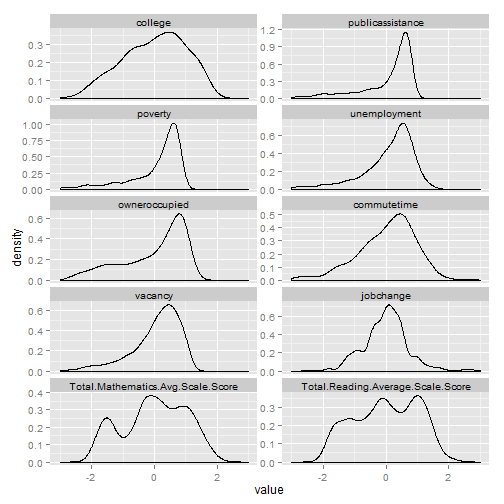
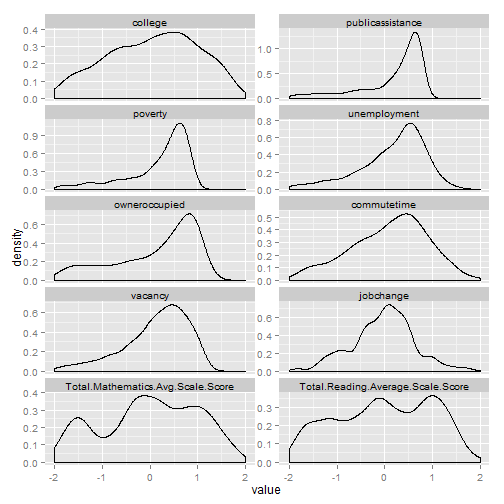
Add back all text

diff --git a/index.html b/index.html
@@ -24,7 +24,25 @@
 
       <section>
         <h2>Opportunity Index</h2>
+<p>The <a href="http://kirwaninstitute.osu.edu/reports/2009/11_2009_CTOppMapping_FullReport.pdf">Opportunity Index</a> uses 10 variables; seven of these can be retrieved from the Census Bureau&#39;s American Community Survey:</p>
+
+<ul>
+<li><a href="http://factfinder2.census.gov/faces/tableservices/jsf/pages/productview.xhtml?pid=ACS_11_5YR_B23006">Educational attainment for the population</a> (college and associates degrees)</li>
+<li><a href="http://factfinder2.census.gov/faces/tableservices/jsf/pages/productview.xhtml?pid=ACS_12_5YR_B23025">Unemployment rates</a> (percent in labor force but unemployed)</li>
+<li><a href="http://factfinder2.census.gov/faces/tableservices/jsf/pages/productview.xhtml?pid=ACS_11_5YR_B19058">Population on public assistance</a></li>
+<li><a href="http://factfinder2.census.gov/faces/tableservices/jsf/pages/productview.xhtml?pid=ACS_12_5YR_B08135">Mean commute time</a> (average time to commute for residents, using the method outlined <a href="http://quickfacts.census.gov/qfd/meta/long_LFE305212.htm">here</a>)</li>
+<li><a href="http://factfinder2.census.gov/faces/tableservices/jsf/pages/productview.xhtml?pid=ACS_12_5YR_B25002">Vacancy rate</a> (percent vacant housing)</li>
+<li><a href="http://factfinder2.census.gov/faces/tableservices/jsf/pages/productview.xhtml?pid=ACS_12_5YR_B17017">Poverty</a> (percent below poverty line)</li>
+<li><a href="http://factfinder2.census.gov/faces/tableservices/jsf/pages/productview.xhtml">Home ownership rate</a></li>
+</ul>
+
 <h3>Census data for neighborhoods</h3>
+
+<p>For &#39;neighborhood&#39; data, the index uses census tracts which restricts the data source to the ACS 5-year estimates. I used the <a href="http://cran.r-project.org/web/packages/acs/index.html">acs.R package</a> to download census data by tract for the entire state for each of these seven variables. The most recent set of 5-year estimates spans 2008 - 2012, but the script could be updated for different years as new data becomes available.</p>
+
+<p>To keep each of the variables in the same &#39;direction&#39; (more homeownership is &#39;good,&#39; while more poverty is &#39;bad&#39;), I converted the public assistance, poverty, unemployment and vacancy to the inverse percentage (i.e. 1 - rate). For the commute times, I multiplied by (-1) so that longer commute times are lower values. </p>
+
+<p>Below are summary stats for the census data components of the index:</p>
 
 <!-- html table generated in R 3.0.2 by xtable 1.7-3 package -->
 
@@ -41,7 +59,17 @@
   <TR> <TD align="right"> 7 </TD> <TD> NA's   :5   </TD> <TD> NA's   :7   </TD> <TD> NA's   :7   </TD> <TD> NA's   :7   </TD> <TD> NA's   :7   </TD> <TD> NA's   :8   </TD> <TD> NA's   :6   </TD> </TR>
    </TABLE>
 
+<p>The remaining variables - math and reading test scores and economic climate - aren&#39;t publicly available at the neighborhood level. </p>
+
 <h3>Town data for jobs and test scores</h3>
+
+<p>Math and reading scores are reported by the State Department of Education <a href="http://www.ctreports.com/">at the school and district level</a>. Since many children do not attend neighborhood schools, even if data were readily available it may  not accurately represent opportunity in a particular neighborhood. As a proxy, we use the average test scores for the school district of the town. Average test scores take into account the performance of all students, not just those crossing a particular threshold. </p>
+
+<p>A few smaller districts did not have 2013 reports, so the most recent year available was used instead. Scores for regional school districts are reported for each town in the region. Cornwall and Union did not have data for any of the past 7 years. (The index also does not specify the grade to use, so I opted to take 3rd grade reading and math scores as a fairly common milestone indicator.)</p>
+
+<p>&#39;Economic climate&#39; was defined for the Opportunity Index as &#39;the change in jobs within 5 miles from 2005 to 2008,&#39; using data from ESRI Business Analyst. To get around relying on data from ESRI, I used the <a href="http://www1.ctdol.state.ct.us/lmi/">Quarterly Census of Earnings and Wages</a> series from the Bureau of Labor Statistics. The data is available by town and is a direct census of employment from wage records. I used 2009 to 2012 as the timeframe, although this does not perfectly match the census data. </p>
+
+<p>As in the prior Opportunity Index, the job change data has some outlier values, particularly for small towns (such as Barkhamsted, where employment doubled from 616 to 1145 people over the three years) which you can see in the summary stats below.</p>
 
 <!-- html table generated in R 3.0.2 by xtable 1.7-1 package -->
 
@@ -60,15 +88,33 @@
 
 <h3>Calculating z-scores for the index</h3>
 
+<p>The Opportunity Index uses z-scores to scale the variables and calculate the index. This is important because the interpretation of the z-scores depends on how the data are distributed. If data are distributed normally (&#39;bell-curve&#39; style), the z-scores tell us roughly how much of the data is below or above a certain z-score. You can then also compare z-scores for different bell-curve-shaped data sets - the z-scores mean the same thing if the underlying distributions have the same shape. </p>
+
+<p>The plots below show the distribution of each of the components of the index for the 833 census tracts in Connecticut. You can see that most are not bell-curve shaped though. Rather, several are skewed, which reflects the general concentration of poverty, public assistance and related variables in a small set of neighborhoods within the state. </p>
+
 <p><img src="assets/fig/unnamed-chunk-3.png" alt="plot of chunk unnamed-chunk-3"> </p>
+
+<p>If the data are not normally distributed - if, for instance, they are skewed or there are multiple modes in the data - then the z-scores can be harder to interpret. And it&#39;s also harder to compare the z-scores across variables - a z-score of 2 for poverty doesn&#39;t mean the same thing as a z-score of 2 for commute time if they don&#39;t have the same-shaped distribution. </p>
+
+<p>This matters since the opportunity index is calculated using the average z-scores across all of the variables. If the variables have different distributions, then the z-scores will have different ranges and the z-scores won&#39;t have the same interpretation or influence on the final index values. </p>
+
+<p>The charts below show the standardized results for each variable - they report the z-scores between -/+2 standard deviations for each variable. You can see that variables like poverty, public assistance, unemployment tend to have similar shapes and are skewed positive - there are many above-average tracts, but a long tail of tracts with below-average scores on these variables.</p>
 
 <p><img src="assets/fig/unnamed-chunk-4.png" alt="plot of chunk unnamed-chunk-4"> </p>
 
+<p>To see this visually, we can map each of the variables for the state. Several variables - like poverty, public assistance, unemployment - show similar patterns across tracts, while job growth and vacancy are less similar. </p>
+
 <p><img src="assets/fig/unnamed-chunk-5.png" alt="plot of chunk unnamed-chunk-5"> </p>
+
+<p>The next step is to calculate the opportunity index from the z-scores of the individual variables. Even this has some choices involved - the Kirwan Institute mapping uses <a href="http://kirwaninstitute.osu.edu/reports/2009/11_2009_CTOppMapping_FullReport.pdf">quintiles to color the maps</a>, which means 1/5th of the tracts will fall into each color category. The map below shows the updated index for the state using quintiles. </p>
 
 <p><img src="assets/fig/unnamed-chunk-6.png" alt="plot of chunk unnamed-chunk-6"> </p>
 
+<p>Another way of coloring the map would be to use <a href="http://support.esri.com/en/knowledgebase/GISDictionary/term/natural%20breaks%20classification">Jenks natural breaks</a> method which looks for natural divisions in the data. The map below uses this coloring method for the same data.</p>
+
 <p><img src="assets/fig/unnamed-chunk-7.png" alt="plot of chunk unnamed-chunk-7"> </p>
+
+<p>This map reflects fewer areas of &#39;very low&#39; opportunity, but more areas of &#39;low&#39; and &#39;moderate&#39; opportunity. Another way to see this is to plot the distribution of the index values for the tracts, including the breakpoints. The chart below shows the breakpoints using the quintiles. (Again, the overall distribution is skewed positive.)</p>
 
 <p><img src="assets/fig/unnamed-chunk-8.png" alt="plot of chunk unnamed-chunk-8"> </p>
 
@@ -76,7 +122,13 @@
 
 <p><img src="assets/fig/unnamed-chunk-9.png" alt="plot of chunk unnamed-chunk-9"> </p>
 
+<p>Using quintiles means that roughly 20 percent of the population will always live in high opportunity areas (since census tracts have roughly similar population), while the Jenks breaks (or other methods) would reflect the concentration of poverty in a smaller set of areas. </p>
+
 <h3>What is driving the Opportunity Index</h3>
+
+<p>With a composite index of z-scores, it helps to see if specific variables are playing more of a role in determining the final index values. The <a href="http://www.oecd.org/std/42495745.pdf">OECD guide to composite indicators</a> notes that using z-scores means that &#39;indicators with extreme values thus have a greater effect on the composite indicator.&#39; That can be an issue in a state with a high degree of inequality and concentration of poverty. </p>
+
+<p>As a start, we know that many of the variables are correlated with each other - the correlation matrix below shows that several of the variables - poverty, public assistance, etc. - are correlated with each other. Job growth has almost no correlation with any of the variables. </p>
 
 <!-- html table generated in R 3.0.2 by xtable 1.7-3 package -->
 
@@ -96,7 +148,11 @@
   <TR> <TD align="right"> Total.Reading.Average.Scale.Score </TD> <TD align="right"> 0.70 </TD> <TD align="right"> 0.65 </TD> <TD align="right"> 0.62 </TD> <TD align="right"> 0.53 </TD> <TD align="right"> 0.64 </TD> <TD align="right"> -0.37 </TD> <TD align="right"> 0.29 </TD> <TD align="right"> 0.05 </TD> <TD align="right"> 0.96 </TD> <TD align="right"> 1.00 </TD> </TR>
    </TABLE>
 
+<p>A scatterplot matrix shows the same visually - job growth and (to a lesser extent) commute time have little obvious relationship with the other variables.</p>
+
 <p><img src="assets/fig/unnamed-chunk-11.png" alt="plot of chunk unnamed-chunk-11"> </p>
+
+<p>A principal components analysis is another way to look at how each variable impacts the final index. For the index data, the first principal component dominates the results - explaining 56 percent of the overall variance in the data (first bar in the graph, first column in the table). </p>
 
 <!-- html table generated in R 3.0.2 by xtable 1.7-3 package -->
 
@@ -111,9 +167,27 @@
 
 <p><img src="assets/fig/unnamed-chunk-12.png" alt="plot of chunk unnamed-chunk-12"> </p>
 
+<p>We can look at the weights for each of the variables in the first principal component in the chart below. This shows that job growth has little influence on the first component (weight close to 0), while commute time offsets some of the other variables (positive weight). Poverty, public assistance and owner-occupied housing have the strongest weights. </p>
+
 <p><img src="assets/fig/unnamed-chunk-13.png" alt="plot of chunk unnamed-chunk-13"> </p>
 
+<p>In other words, since much of the variance is explained by the first principal components and since poverty, public assistance, owner-occupied housing, educational attainment, test scores and unemployment have the most weight for that component, most of the opportunity index is described by these variables (poverty, public assistance, etc.). </p>
+
+<p>Not surprisingly, many of these variables also have skewed distributions for Connecticut, and hence a more extreme range of z-scores to factor into the overall index.</p>
+
+<p>Another way to look at this is to see how well these variables predict the final index values. For example, poverty alone predicts the overall index pretty well - the R-squared is 0.78 - meaning that the variation in poverty alone explains 78% of the variation in opportunity. </p>
+
 <p><img src="assets/fig/unnamed-chunk-14.png" alt="plot of chunk unnamed-chunk-14"> </p>
+
+<p>Overall: </p>
+
+<ul>
+<li>We can re-calculate the opportunity index using Census data and state data for towns on test scores and jobs, making some concessions for data availability on the latter variables.</li>
+<li>Timing is a consideration - the Census data covers a different time horizon than the other variables. (But the original index used 2000 census data and jobs data for 2005 - 2008, so this may be less of a concern.)</li>
+<li>The index is driven largely by poverty and variables like public assistance that are strongly correlated with poverty. </li>
+<li>Different ways to display the data will yield different conclusions about the landscape of opportunity in Connecticut. </li>
+<li>Job growth (economic climate) has the least influence on the index as it is uncorrelated with the other variables. </li>
+</ul>
 
       </section>
       <footer>

diff --git a/index.md b/index.md
@@ -12,11 +12,22 @@ markdown    : kramdown
 
 ## Opportunity Index
 
-
+The [Opportunity Index](http://kirwaninstitute.osu.edu/reports/2009/11_2009_CTOppMapping_FullReport.pdf) uses 10 variables; seven of these can be retrieved from the Census Bureau's American Community Survey:
+* [Educational attainment for the population](http://factfinder2.census.gov/faces/tableservices/jsf/pages/productview.xhtml?pid=ACS_11_5YR_B23006) (college and associates degrees)
+* [Unemployment rates](http://factfinder2.census.gov/faces/tableservices/jsf/pages/productview.xhtml?pid=ACS_12_5YR_B23025) (percent in labor force but unemployed)
+* [Population on public assistance](http://factfinder2.census.gov/faces/tableservices/jsf/pages/productview.xhtml?pid=ACS_11_5YR_B19058)
+* [Mean commute time](http://factfinder2.census.gov/faces/tableservices/jsf/pages/productview.xhtml?pid=ACS_12_5YR_B08135) (average time to commute for residents, using the method outlined [here](http://quickfacts.census.gov/qfd/meta/long_LFE305212.htm))
+* [Vacancy rate](http://factfinder2.census.gov/faces/tableservices/jsf/pages/productview.xhtml?pid=ACS_12_5YR_B25002) (percent vacant housing)
+* [Poverty](http://factfinder2.census.gov/faces/tableservices/jsf/pages/productview.xhtml?pid=ACS_12_5YR_B17017) (percent below poverty line)
+* [Home ownership rate](http://factfinder2.census.gov/faces/tableservices/jsf/pages/productview.xhtml)
 
 ### Census data for neighborhoods
 
+For 'neighborhood' data, the index uses census tracts which restricts the data source to the ACS 5-year estimates. I used the [acs.R package](http://cran.r-project.org/web/packages/acs/index.html) to download census data by tract for the entire state for each of these seven variables. The most recent set of 5-year estimates spans 2008 - 2012, but the script could be updated for different years as new data becomes available.
 
+To keep each of the variables in the same 'direction' (more homeownership is 'good,' while more poverty is 'bad'), I converted the public assistance, poverty, unemployment and vacancy to the inverse percentage (i.e. 1 - rate). For the commute times, I multiplied by (-1) so that longer commute times are lower values. 
+
+Below are summary stats for the census data components of the index:
 
 <!-- html table generated in R 3.0.2 by xtable 1.7-3 package -->
 <!-- Wed May 21 15:31:37 2014 -->
@@ -32,9 +43,17 @@ markdown    : kramdown
    </TABLE>
 
 
+The remaining variables - math and reading test scores and economic climate - aren't publicly available at the neighborhood level. 
+
 ### Town data for jobs and test scores
 
+Math and reading scores are reported by the State Department of Education [at the school and district level](http://www.ctreports.com/). Since many children do not attend neighborhood schools, even if data were readily available it may  not accurately represent opportunity in a particular neighborhood. As a proxy, we use the average test scores for the school district of the town. Average test scores take into account the performance of all students, not just those crossing a particular threshold. 
 
+A few smaller districts did not have 2013 reports, so the most recent year available was used instead. Scores for regional school districts are reported for each town in the region. Cornwall and Union did not have data for any of the past 7 years. (The index also does not specify the grade to use, so I opted to take 3rd grade reading and math scores as a fairly common milestone indicator.)
+
+'Economic climate' was defined for the Opportunity Index as 'the change in jobs within 5 miles from 2005 to 2008,' using data from ESRI Business Analyst. To get around relying on data from ESRI, I used the [Quarterly Census of Earnings and Wages](http://www1.ctdol.state.ct.us/lmi/) series from the Bureau of Labor Statistics. The data is available by town and is a direct census of employment from wage records. I used 2009 to 2012 as the timeframe, although this does not perfectly match the census data. 
+
+As in the prior Opportunity Index, the job change data has some outlier values, particularly for small towns (such as Barkhamsted, where employment doubled from 616 to 1145 people over the three years) which you can see in the summary stats below.
 
 <!-- html table generated in R 3.0.2 by xtable 1.7-1 package -->
 <!-- Tue May 20 16:53:00 2014 -->
@@ -52,31 +71,38 @@ markdown    : kramdown
 
 ### Calculating z-scores for the index
 
+The Opportunity Index uses z-scores to scale the variables and calculate the index. This is important because the interpretation of the z-scores depends on how the data are distributed. If data are distributed normally ('bell-curve' style), the z-scores tell us roughly how much of the data is below or above a certain z-score. You can then also compare z-scores for different bell-curve-shaped data sets - the z-scores mean the same thing if the underlying distributions have the same shape. 
 
+The plots below show the distribution of each of the components of the index for the 833 census tracts in Connecticut. You can see that most are not bell-curve shaped though. Rather, several are skewed, which reflects the general concentration of poverty, public assistance and related variables in a small set of neighborhoods within the state. 
 
 ![plot of chunk unnamed-chunk-3](assets/fig/unnamed-chunk-3.png) 
 
 
+If the data are not normally distributed - if, for instance, they are skewed or there are multiple modes in the data - then the z-scores can be harder to interpret. And it's also harder to compare the z-scores across variables - a z-score of 2 for poverty doesn't mean the same thing as a z-score of 2 for commute time if they don't have the same-shaped distribution. 
 
+This matters since the opportunity index is calculated using the average z-scores across all of the variables. If the variables have different distributions, then the z-scores will have different ranges and the z-scores won't have the same interpretation or influence on the final index values. 
+
+The charts below show the standardized results for each variable - they report the z-scores between -/+2 standard deviations for each variable. You can see that variables like poverty, public assistance, unemployment tend to have similar shapes and are skewed positive - there are many above-average tracts, but a long tail of tracts with below-average scores on these variables.
 
 ![plot of chunk unnamed-chunk-4](assets/fig/unnamed-chunk-4.png) 
 
 
-
+To see this visually, we can map each of the variables for the state. Several variables - like poverty, public assistance, unemployment - show similar patterns across tracts, while job growth and vacancy are less similar. 
 
 ![plot of chunk unnamed-chunk-5](assets/fig/unnamed-chunk-5.png) 
 
 
+The next step is to calculate the opportunity index from the z-scores of the individual variables. Even this has some choices involved - the Kirwan Institute mapping uses [quintiles to color the maps](http://kirwaninstitute.osu.edu/reports/2009/11_2009_CTOppMapping_FullReport.pdf), which means 1/5th of the tracts will fall into each color category. The map below shows the updated index for the state using quintiles. 
 
 ![plot of chunk unnamed-chunk-6](assets/fig/unnamed-chunk-6.png) 
 
 
-
+Another way of coloring the map would be to use [Jenks natural breaks](http://support.esri.com/en/knowledgebase/GISDictionary/term/natural%20breaks%20classification) method which looks for natural divisions in the data. The map below uses this coloring method for the same data.
 
 ![plot of chunk unnamed-chunk-7](assets/fig/unnamed-chunk-7.png) 
 
 
-
+This map reflects fewer areas of 'very low' opportunity, but more areas of 'low' and 'moderate' opportunity. Another way to see this is to plot the distribution of the index values for the tracts, including the breakpoints. The chart below shows the breakpoints using the quintiles. (Again, the overall distribution is skewed positive.)
 
 ![plot of chunk unnamed-chunk-8](assets/fig/unnamed-chunk-8.png) 
 
@@ -86,9 +112,13 @@ And this chart shows the breakpoints using the natural breaks method.
 ![plot of chunk unnamed-chunk-9](assets/fig/unnamed-chunk-9.png) 
 
 
+Using quintiles means that roughly 20 percent of the population will always live in high opportunity areas (since census tracts have roughly similar population), while the Jenks breaks (or other methods) would reflect the concentration of poverty in a smaller set of areas. 
 
 ### What is driving the Opportunity Index 
 
+With a composite index of z-scores, it helps to see if specific variables are playing more of a role in determining the final index values. The [OECD guide to composite indicators](http://www.oecd.org/std/42495745.pdf) notes that using z-scores means that 'indicators with extreme values thus have a greater effect on the composite indicator.' That can be an issue in a state with a high degree of inequality and concentration of poverty. 
+
+As a start, we know that many of the variables are correlated with each other - the correlation matrix below shows that several of the variables - poverty, public assistance, etc. - are correlated with each other. Job growth has almost no correlation with any of the variables. 
 
 <!-- html table generated in R 3.0.2 by xtable 1.7-3 package -->
 <!-- Wed May 21 11:12:22 2014 -->
@@ -107,12 +137,12 @@ And this chart shows the breakpoints using the natural breaks method.
    </TABLE>
 
 
- 
+A scatterplot matrix shows the same visually - job growth and (to a lesser extent) commute time have little obvious relationship with the other variables.
 
 ![plot of chunk unnamed-chunk-11](assets/fig/unnamed-chunk-11.png) 
 
 
-
+A principal components analysis is another way to look at how each variable impacts the final index. For the index data, the first principal component dominates the results - explaining 56 percent of the overall variance in the data (first bar in the graph, first column in the table). 
 
 <!-- html table generated in R 3.0.2 by xtable 1.7-3 package -->
 <!-- Wed May 21 13:49:46 2014 -->
@@ -125,15 +155,24 @@ And this chart shows the breakpoints using the natural breaks method.
 ![plot of chunk unnamed-chunk-12](assets/fig/unnamed-chunk-12.png) 
 
 
-
+We can look at the weights for each of the variables in the first principal component in the chart below. This shows that job growth has little influence on the first component (weight close to 0), while commute time offsets some of the other variables (positive weight). Poverty, public assistance and owner-occupied housing have the strongest weights. 
 
 ![plot of chunk unnamed-chunk-13](assets/fig/unnamed-chunk-13.png) 
 
 
+In other words, since much of the variance is explained by the first principal components and since poverty, public assistance, owner-occupied housing, educational attainment, test scores and unemployment have the most weight for that component, most of the opportunity index is described by these variables (poverty, public assistance, etc.). 
 
+Not surprisingly, many of these variables also have skewed distributions for Connecticut, and hence a more extreme range of z-scores to factor into the overall index.
+
+Another way to look at this is to see how well these variables predict the final index values. For example, poverty alone predicts the overall index pretty well - the R-squared is 0.78 - meaning that the variation in poverty alone explains 78% of the variation in opportunity. 
 
 ![plot of chunk unnamed-chunk-14](assets/fig/unnamed-chunk-14.png) 
 
 
-
+Overall: 
+* We can re-calculate the opportunity index using Census data and state data for towns on test scores and jobs, making some concessions for data availability on the latter variables.
+* Timing is a consideration - the Census data covers a different time horizon than the other variables. (But the original index used 2000 census data and jobs data for 2005 - 2008, so this may be less of a concern.)
+* The index is driven largely by poverty and variables like public assistance that are strongly correlated with poverty. 
+* Different ways to display the data will yield different conclusions about the landscape of opportunity in Connecticut. 
+* Job growth (economic climate) has the least influence on the index as it is uncorrelated with the other variables. 
 
